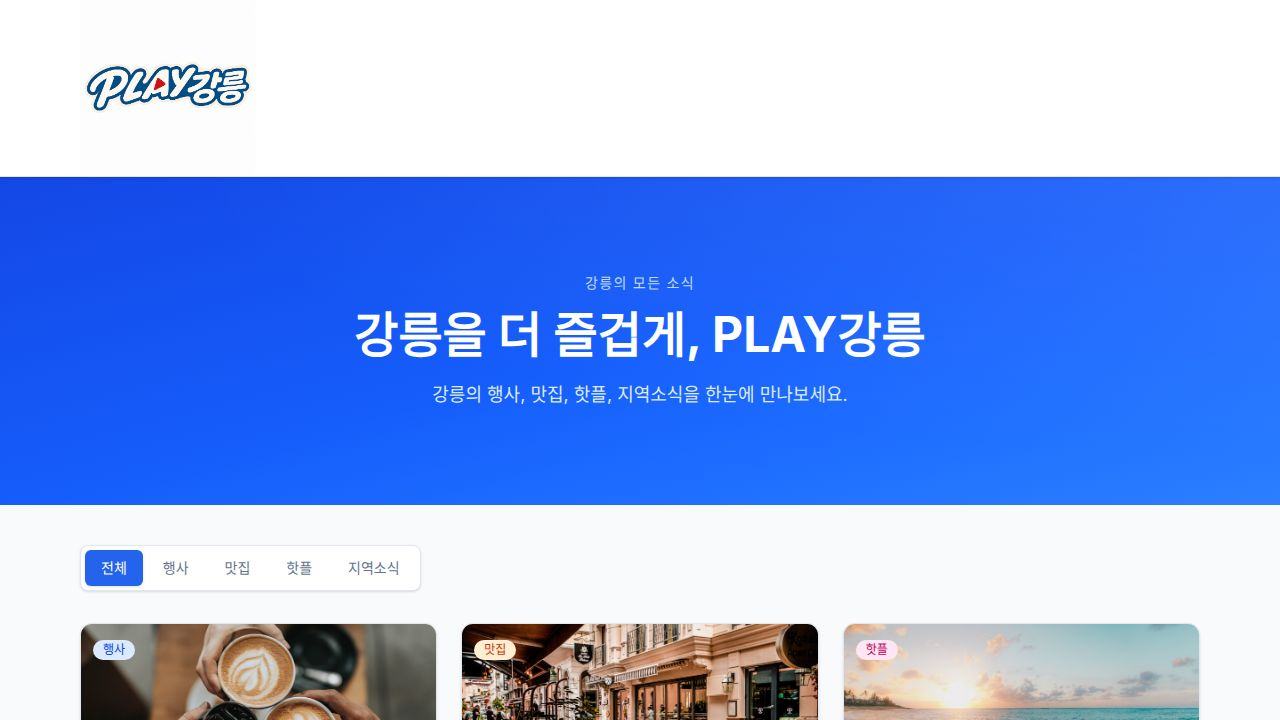
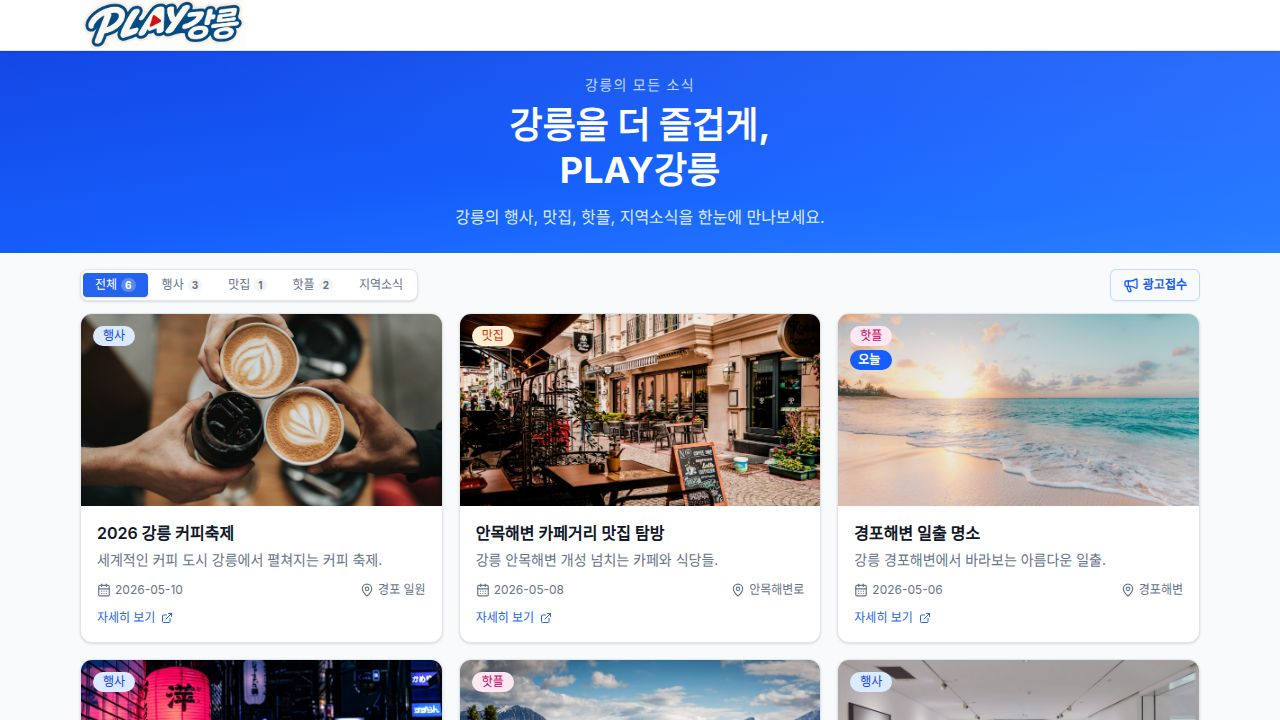
feat: 카테고리 탭 클릭 시 URL 파라미터 반영 및 필터링 개선
Task #4: 카테고리 탭 클릭 시 실제 필터링이 작동하도록 개선하기

변경 사항:
1. URL 파라미터 연동 (?category=행사)
   - 탭 전환 시 wouter navigate()로 URL 업데이트
   - 페이지 진입 시 useSearch()로 URL 파라미터 읽어 초기 탭 설정
   - useEffect로 URL 변경 감지해 탭 상태 동기화 (브라우저 뒤로가기 대응)

2. 각 탭에 콘텐츠 수 뱃지 표시
   - categoryCounts useMemo로 전체/행사/맛집/핫플/지역소식 각 항목 수 계산
   - 0개인 탭은 뱃지 미표시, 1개 이상이면 pill 형태로 표시
   - 활성 탭은 흰색 반투명 뱃지, 비활성 탭은 회색 뱃지

3. 빈 카테고리 안내 문구
   - 콘텐츠가 0개인 카테고리 탭 선택 시 "곧 업데이트됩니다" 안내
   - 해당 카테고리명과 함께 "준비 중" 메시지 표시
   - "전체 콘텐츠 보기" 버튼으로 전체 탭으로 복귀 가능
   - 날짜 필터로 인한 빈 결과는 기존 "해당 날짜의 행사가 없습니다" 유지

수정 파일:
- artifacts/playgangneung-dashboard/src/pages/home.tsx

이탈 없음: 태스크 명세 그대로 구현.

Replit-Task-Id: b0bdde57-cffd-4ce1-9a91-105df2181a4c

diff --git a/artifacts/playgangneung-dashboard/src/pages/home.tsx b/artifacts/playgangneung-dashboard/src/pages/home.tsx
@@ -1,12 +1,13 @@
-import { useState, useMemo } from "react";
+import { useState, useMemo, useEffect } from "react";
 import { useQuery } from "@tanstack/react-query";
+import { useSearch, useLocation } from "wouter";
 import { Button } from "@/components/ui/button";
 import { Card, CardContent } from "@/components/ui/card";
 import { Tabs, TabsList, TabsTrigger } from "@/components/ui/tabs";
 import { Badge } from "@/components/ui/badge";
 import {
   CalendarDays, ExternalLink, MapPin, Instagram, Facebook, Youtube,
-  Megaphone, Star, Pin, ChevronLeft, ChevronRight,
+  Megaphone, Star, Pin, ChevronLeft, ChevronRight, RefreshCw,
 } from "lucide-react";
 
 const BASE = import.meta.env.BASE_URL.replace(/\/$/, "");
@@ -285,11 +286,34 @@ function EventCalendar({
   );
 }
 
+const VALID_CATEGORIES: Category[] = ["전체", "행사", "맛집", "핫플", "지역소식"];
+
+function parseCategoryParam(search: string): Category {
+  const params = new URLSearchParams(search);
+  const cat = params.get("category");
+  if (cat && VALID_CATEGORIES.includes(cat as Category)) return cat as Category;
+  return "전체";
+}
+
 export default function Home() {
-  const [activeTab, setActiveTab] = useState<Category>("전체");
+  const search = useSearch();
+  const [, navigate] = useLocation();
+
+  const initialCategory = useMemo(() => parseCategoryParam(search), []);
+  const [activeTab, setActiveTab] = useState<Category>(initialCategory);
   const [eventSubTab, setEventSubTab] = useState<EventSubTab>("전체");
   const [calendarDate, setCalendarDate] = useState<string | null>(null);
   const [showAll, setShowAll] = useState(false);
+
+  useEffect(() => {
+    const cat = parseCategoryParam(search);
+    if (cat !== activeTab) {
+      setActiveTab(cat);
+      setEventSubTab("전체");
+      setCalendarDate(null);
+      setShowAll(false);
+    }
+  }, [search]);
 
   const { data } = useQuery<{ feed: FeedItem[]; total: number }>({
     queryKey: ["public-feed"],
@@ -345,11 +369,25 @@ export default function Home() {
     (i) => i.date >= weekRange.start && i.date <= weekRange.end
   ).length;
 
+  const categoryCounts = useMemo(() => {
+    const counts: Record<Category, number> = { 전체: allItems.length, 행사: 0, 맛집: 0, 핫플: 0, 지역소식: 0 };
+    for (const item of allItems) {
+      if (item.category in counts) counts[item.category as Category]++;
+    }
+    return counts;
+  }, [allItems]);
+
   function handleMainTabChange(v: string) {
-    setActiveTab(v as Category);
+    const cat = v as Category;
+    setActiveTab(cat);
     setEventSubTab("전체");
     setCalendarDate(null);
     setShowAll(false);
+    if (cat === "전체") {
+      navigate("/");
+    } else {
+      navigate(`/?category=${encodeURIComponent(cat)}`);
+    }
   }
 
   function handleSubTabChange(sub: EventSubTab) {
@@ -395,9 +433,18 @@ export default function Home() {
                   <TabsTrigger
                     key={cat}
                     value={cat}
-                    className="px-3 py-1 text-xs data-[state=active]:bg-primary data-[state=active]:text-white rounded"
+                    className="px-3 py-1 text-xs data-[state=active]:bg-primary data-[state=active]:text-white rounded flex items-center gap-1"
                   >
                     {cat}
+                    {categoryCounts[cat] > 0 && (
+                      <span className={`text-[10px] font-bold px-1 py-0.5 rounded-full leading-none
+                        ${activeTab === cat
+                          ? "bg-white/25 text-white"
+                          : "bg-gray-100 text-gray-500"
+                        }`}>
+                        {categoryCounts[cat]}
+                      </span>
+                    )}
                   </TabsTrigger>
                 ))}
               </TabsList>
@@ -464,11 +511,27 @@ export default function Home() {
         {!(activeTab === "행사" && eventSubTab === "달력") && (
           <>
             {subFiltered.length === 0 ? (
-              <div className="flex flex-col items-center justify-center py-24 text-muted-foreground">
-                <CalendarDays className="w-12 h-12 mb-3 opacity-20" />
-                <p className="text-lg font-medium">해당 날짜의 행사가 없습니다.</p>
-                <p className="text-sm mt-1">다른 날짜를 선택하거나 전체 탭을 확인해보세요.</p>
-              </div>
+              activeTab !== "전체" && categoryCounts[activeTab] === 0 ? (
+                <div className="flex flex-col items-center justify-center py-24 text-muted-foreground">
+                  <RefreshCw className="w-12 h-12 mb-3 opacity-20" />
+                  <p className="text-lg font-semibold text-gray-600">곧 업데이트됩니다</p>
+                  <p className="text-sm mt-1 text-gray-400">{activeTab} 카테고리 콘텐츠를 준비 중입니다.</p>
+                  <Button
+                    variant="outline"
+                    size="sm"
+                    className="mt-4 text-xs"
+                    onClick={() => handleMainTabChange("전체")}
+                  >
+                    전체 콘텐츠 보기
+                  </Button>
+                </div>
+              ) : (
+                <div className="flex flex-col items-center justify-center py-24 text-muted-foreground">
+                  <CalendarDays className="w-12 h-12 mb-3 opacity-20" />
+                  <p className="text-lg font-medium">해당 날짜의 행사가 없습니다.</p>
+                  <p className="text-sm mt-1">다른 날짜를 선택하거나 전체 탭을 확인해보세요.</p>
+                </div>
+              )
             ) : (
               <div className="grid grid-cols-1 sm:grid-cols-2 lg:grid-cols-3 gap-4">
                 {display.map((item) => (
